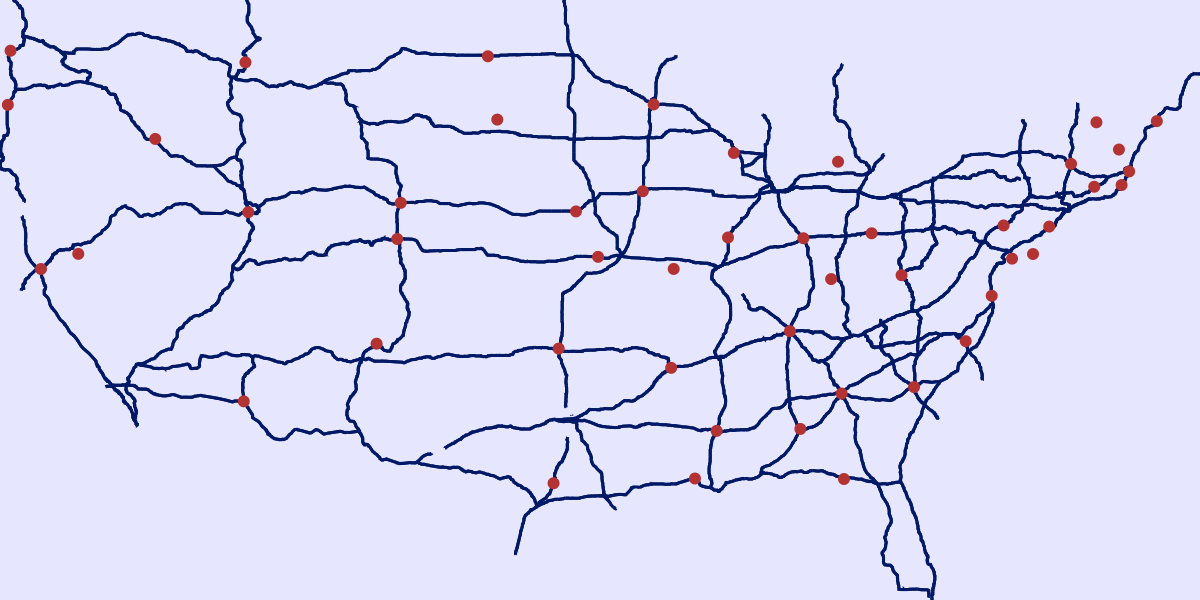
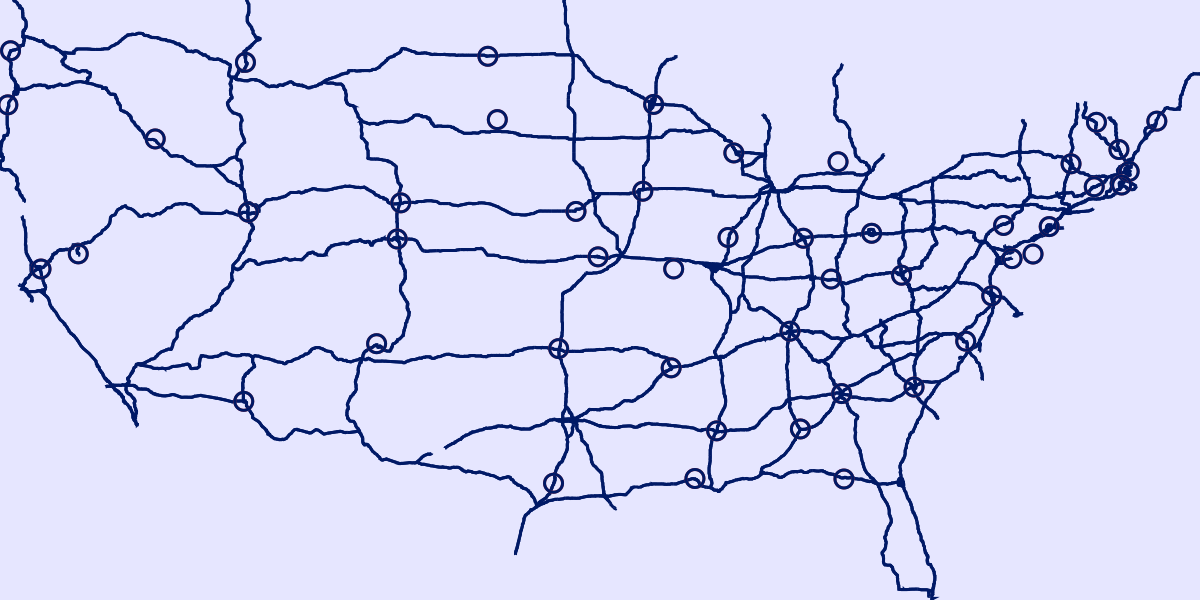
iterating toward connectivity

diff --git a/2021/08.roads/exShape09.py b/2021/08.roads/exShape09.py
@@ -16,14 +16,27 @@ es.targetRoads = []
 
 for i in range(10, 91, 10): es.targetRoads.append(i)
 for i in range( 5, 96, 10): es.targetRoads.append(i)
+for i in range(195, 996, 100): es.targetRoads.append(i)
 
-manualList = [82,84,86,94, 17,29,24,43,77,79,81,87, 26]
+#manualList = [82,84,86,94, 17,29,24,43,77,79,81,87, 26, 44, 255, 270, 64]
+manualList = [82,84,86,94, 17,29,24,43,77,79,81,87,89,93, 26, 255, 270, 64]
+manualList += [64,264,24,57, 505, 205, 880, 580]
+
+def roadBus(roadNum, postfixes=['W', 'E', ' W', ' E']): #business roads
+  result = []
+  for postfix in postfixes: result.append(str(roadNum) + postfix)
+  return result
+
+postfixedRoads = [35, 20]
+for postfixedRoad in postfixedRoads: manualList += roadBus(postfixedRoad)
 
 for road in manualList: es.targetRoads.append(road)
 
 print('targetRoads:', es.targetRoads)
 
 #es.targetRoads = [10, 90,  5, 95]
+
+
 
 es.extractInterstateVerts()
 es.calcLatLongMinMaxRange()
@@ -44,9 +57,8 @@ firstline = True; lineNum = 0
 for capitolDS in dataReader: #state capitol data structure
   if firstline: firstline = False; continue
   city, state, long, lat = capitolDS; lineNum += 1
-  #if lineNum == 31: es.drawCircle([float(lat), float(long)], .02) 
-
-  try:    es.drawCircle([float(lat), float(long)], .02) 
+  #try:    es.drawCircle([float(lat), float(long)], .02) 
+  try:    es.drawCircle([float(lat), float(long)], .03) 
   except: print(traceback.print_exc())
 
 es.ctx.stroke()

diff --git a/2021/08.roads/enShapefile.py b/2021/08.roads/enShapefile.py
@@ -112,11 +112,11 @@ class enShapefile:
 
     cr.save()
     cr.translate(vert[0], vert[1])
-    cr.arc(0, 0, diam, 0, 2*math.pi)
-    #cr.stroke_preserve()
-        
     cr.set_source_rgb(0.7, .2, .2)
-    cr.fill()
+    cr.arc(0, 0, diam, 0, 2*math.pi)
+    cr.stroke_preserve()
+        
+    #cr.fill()
     cr.restore()
     cr.stroke()
 
